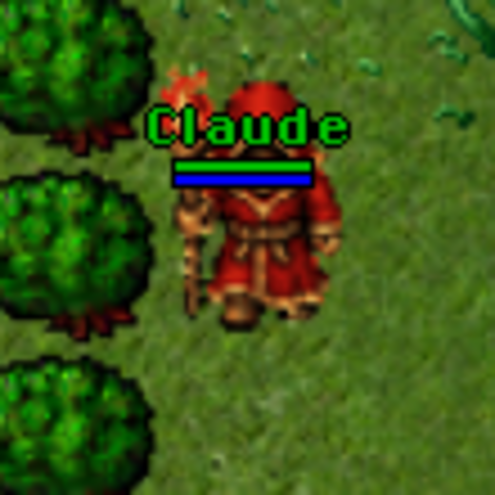
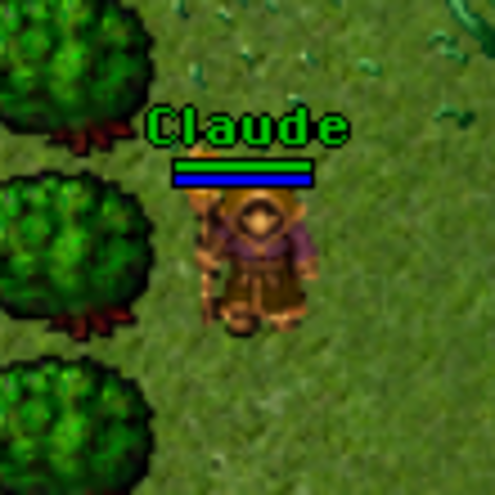
Corrige a altura do outfit e adiciona troca de cor
Duas coisas que estavam erradas no outfit do mago:

O personagem saiu com 46px de altura e o nome ficava em cima do rosto. O
client desenha nome e barras a 12px fixos acima da base do personagem
(creature.cpp, cropSizeText) porque adjust-creature-information-based-crop-size
vem false no setup.otml — medida calibrada para o personagem padrao do
Tibia, que tem 32px. Convertido de novo com 33px.

E a mascara de cor ia vazia, entao o outfit ignorava o seletor de cores.
Agora o --colorizavel monta o par que o client espera: base com os pixels
colorizaveis em tom de cinza e mascara marcando cabeca, corpo, pernas e
pes. Quais pixels entram sai do matiz dominante do sprite, que quase
sempre e o da roupa, entao o cajado, a chama e o rosto ficam de fora e
mantem a cor original.

Claude-Session: https://claude.ai/code/session_01Rj1GRN2Qx92baHhLvVDzy2

Changed region(s): [[0.303, 0.1212, 0.697, 0.697]]

diff --git a/tools/sprites/novo_outfit.py b/tools/sprites/novo_outfit.py
@@ -34,6 +34,93 @@ from novo_efeito import atualizar_dat, gravar_assets   # noqa: E402
 # a ordem dos arquivos e a ordem do client
 DIRECOES = ["norte", "leste", "sul", "oeste"]
 
+# as quatro cores que o client procura na mascara, na ordem em que ele as
+# multiplica: cabeca, corpo, pernas, pes
+MASCARA = {
+    "cabeca": (255, 255, 0),
+    "corpo": (255, 0, 0),
+    "pernas": (0, 255, 0),
+    "pes": (0, 0, 255),
+}
+# faixas verticais do personagem, em fracao da altura, de cima pra baixo
+FAIXAS = (("cabeca", 0.00, 0.34), ("corpo", 0.34, 0.60),
+          ("pernas", 0.60, 0.88), ("pes", 0.88, 1.01))
+
+
+def _matiz(r, g, b):
+    """Matiz em graus, ou None se o pixel for cinza demais para ter cor."""
+    maior, menor = max(r, g, b), min(r, g, b)
+    if maior - menor < 22 or maior < 44:
+        return None
+    d = maior - menor
+    if maior == r:
+        h = ((g - b) / d) % 6
+    elif maior == g:
+        h = (b - r) / d + 2
+    else:
+        h = (r - g) / d + 4
+    return h * 60
+
+
+def matiz_dominante(quadros) -> float:
+    """O matiz que mais aparece — quase sempre o da roupa do personagem."""
+    conta = {}
+    for q in quadros:
+        px = q.load()
+        for y in range(q.height):
+            for x in range(q.width):
+                r, g, b, a = px[x, y]
+                if a == 0:
+                    continue
+                h = _matiz(r, g, b)
+                if h is not None:
+                    conta[round(h / 10) * 10] = conta.get(round(h / 10) * 10, 0) + 1
+    return max(conta, key=conta.get) if conta else 0.0
+
+
+def template_de_cor(img: Image.Image, matiz_alvo: float, tolerancia: float = 15):
+    """Separa o sprite em base cinza + mascara de cor.
+
+    O client multiplica a cor escolhida pelo jogador sobre os pixels
+    marcados na mascara, entao a base precisa entregar esses pixels em tom
+    de cinza — a cor sai do produto.
+
+    So entra na mascara o que estiver perto do matiz da roupa. O resto
+    (cajado, chama, pele, filete dourado) fica de fora e mantem a cor
+    original, que e o que se espera: trocar a cor do personagem nao deve
+    trocar a cor da tocha.
+    """
+    base = img.copy()
+    mascara = Image.new("RGBA", img.size, (0, 0, 0, 0))
+    bp, mp, op = base.load(), mascara.load(), img.load()
+
+    caixa = img.getbbox()
+    if not caixa:
+        return base, mascara
+    topo, alt = caixa[1], caixa[3] - caixa[1]
+
+    for y in range(img.height):
+        for x in range(img.width):
+            r, g, b, a = op[x, y]
+            if a == 0:
+                continue
+            h = _matiz(r, g, b)
+            if h is None:
+                continue
+            dist = abs((h - matiz_alvo + 180) % 360 - 180)
+            if dist > tolerancia:
+                continue                      # nao e a roupa: deixa como esta
+            fracao = (y - topo) / alt
+            for nome, ini, fim in FAIXAS:
+                if ini <= fracao < fim:
+                    mp[x, y] = MASCARA[nome] + (255,)
+                    break
+            # a base guarda so o brilho; a cor vem da multiplicacao
+            luz = int(0.30 * r + 0.59 * g + 0.11 * b)
+            luz = min(255, int(luz * 1.45) + 55)   # clareia, senao sai escuro
+            bp[x, y] = (luz, luz, luz, a)
+    return base, mascara
+
 
 def carregar(pasta: Path) -> tuple[list[Image.Image], int]:
     """Devolve os sprites na ordem do client e o numero de fases."""
@@ -67,6 +154,12 @@ def main() -> int:
     p.add_argument("--assets", required=True)
     p.add_argument("--dat-servidor")
     p.add_argument("--id", type=int, required=True, help="looktype do outfit")
+    p.add_argument("--colorizavel", action="store_true",
+                   help="gera a mascara de cor: o outfit passa a responder ao "
+                        "seletor de cores do jogo (base vira tom de cinza)")
+    p.add_argument("--matiz", type=float,
+                   help="matiz da roupa em graus (0 vermelho, 120 verde, 240 azul). "
+                        "Sem isso, usa o matiz que mais aparece no sprite")
     args = p.parse_args()
 
     pasta_assets = Path(args.assets)
@@ -82,17 +175,29 @@ def main() -> int:
         raise SystemExit(f"o looktype {args.id} ja existe — livres a partir de "
                          f"{max(existentes) + 1}")
 
-    # a mascara de cor vai vazia: o outfit sai com as cores que voce pintou,
-    # sem responder ao seletor de cores do jogo
-    vazio = Image.new("RGBA", (64, 64), (0, 0, 0, 0))
     print(f"outfit {args.id}: 4 direcoes x {fases} fases, 2 camadas "
           f"= {len(quadros) * 2} sprites")
-    ids = gravar_assets(pasta_assets, quadros + [vazio], 64)
-    id_mascara = ids[-1]
 
-    andando = []
-    for i in range(len(quadros)):
-        andando += [ids[i], id_mascara]
+    if args.colorizavel:
+        # base em cinza + mascara marcando cabeca/corpo/pernas/pes: o outfit
+        # passa a responder ao seletor de cores do jogo
+        matiz = args.matiz if args.matiz is not None else matiz_dominante(quadros)
+        print(f"  matiz da roupa: {matiz:.0f} graus")
+        pares = [template_de_cor(q, matiz) for q in quadros]
+        todos = [im for par in pares for im in par]
+        ids = gravar_assets(pasta_assets, todos, 64)
+        andando = list(ids)                # ja sai intercalado base, mascara
+        print("  colorizavel: a cor sai do seletor do jogo")
+    else:
+        # mascara vazia: o outfit sai com as cores que voce pintou e as
+        # passadas de cor do client nao pintam nada
+        vazio = Image.new("RGBA", (64, 64), (0, 0, 0, 0))
+        ids = gravar_assets(pasta_assets, quadros + [vazio], 64)
+        id_mascara = ids[-1]
+        andando = []
+        for i in range(len(quadros)):
+            andando += [ids[i], id_mascara]
+
     parado = andando[:8]                   # a primeira fase serve de pose parada
 
     def aplicar(ap: ta.Appearances):

diff --git a/tools/sprites/README.md b/tools/sprites/README.md
@@ -101,12 +101,21 @@ leste, norte (de costas), oeste:
 
 ```bash
 python3 tools/sprites/folha_para_outfit.py folha.png tools/sprites/arte/mago \
-    --altura 46 --cores 32
+    --altura 33 --cores 32
 
 python3 tools/sprites/novo_outfit.py tools/sprites/arte/mago \
     --assets /caminho/do/client/assets \
-    --dat-servidor data/items/appearances.dat --id 1950
+    --dat-servidor data/items/appearances.dat --id 1950 --colorizavel
 ```
+
+> ⚠ **Respeite os 32 px.** O personagem padrão do Tibia tem 32 px de altura
+> (medi a caixa exata do `citizen`: 32×32). O client desenha o nome e as
+> barras a **12 px fixos** acima da base do personagem — `creature.cpp`,
+> `cropSizeText`, porque `adjust-creature-information-based-crop-size` vem
+> `false` no `setup.otml`. Se o seu personagem for mais alto que isso, o
+> nome cai em cima dele:
+>
+> ![Altura errada e altura certa](../../docs/images/outfit-mago-altura.png)
 
 ![Os 12 sprites convertidos](../../docs/images/outfit-mago-sprites.png)
 
@@ -130,9 +139,32 @@ E o outfit no jogo:
 > ⚠ **Outfit tem duas camadas, sempre.** O desenho e a máscara que diz
 > quais pixels recebem a cor escolhida pelo jogador. Um outfit de camada
 > única *parece* válido no arquivo, mas o client desenha errado — sai tudo
-> lavado numa cor só. O `novo_outfit.py` manda uma máscara vazia: o outfit
-> sai com as cores que você pintou e simplesmente não responde ao seletor
-> de cores.
+> lavado numa cor só.
+
+### Trocar as cores
+
+Com `--colorizavel`, o outfit responde ao seletor de cores do jogo como
+qualquer outfit oficial:
+
+![Trocando a cor do manto no seletor](../../docs/images/outfit-mago-cores.png)
+
+A ferramenta monta o par que o client espera: a **base** entrega os pixels
+coloríveis em tom de cinza (a cor sai da multiplicação) e a **máscara**
+marca cabeça, corpo, pernas e pés — amarelo, vermelho, verde e azul, nessa
+ordem.
+
+Quais pixels entram na máscara sai do **matiz dominante** do sprite, que
+quase sempre é o da roupa. Assim o cajado, a chama, o rosto e o filete
+dourado ficam de fora e mantêm a cor original — trocar a cor do personagem
+não deve trocar a cor da tocha. Se o palpite errar, force com
+`--matiz <graus>` (0 vermelho, 120 verde, 240 azul).
+
+A divisão cabeça/corpo/pernas/pés é por **faixa vertical** (`FAIXAS` no
+`novo_outfit.py`) — funciona bem para figura em pé; para algo com formato
+diferente, ajuste as frações.
+
+Sem `--colorizavel` a máscara vai vazia: o outfit sai exatamente com as
+cores que você pintou e ignora o seletor.
 
 O `/looktype` do datapack tinha um teto fixo de 1469, de quando o datapack
 era de uma versão mais velha. A 15.25 já traz looktype até 1949, então o

diff --git a/README.md b/README.md
@@ -158,8 +158,8 @@ python3 tools/sprites/novo_efeito.py efeito \
 Também converte uma folha de personagem (4 direções × N quadros) em outfit:
 
 ```bash
-python3 tools/sprites/folha_para_outfit.py folha.png tools/sprites/arte/mago --altura 46
-python3 tools/sprites/novo_outfit.py tools/sprites/arte/mago --assets ... --id 1950
+python3 tools/sprites/folha_para_outfit.py folha.png tools/sprites/arte/mago --altura 33
+python3 tools/sprites/novo_outfit.py tools/sprites/arte/mago --assets ... --id 1950 --colorizavel
 ```
 
 ![Outfit próprio no 15.25](docs/images/outfit-mago-perto.png)
